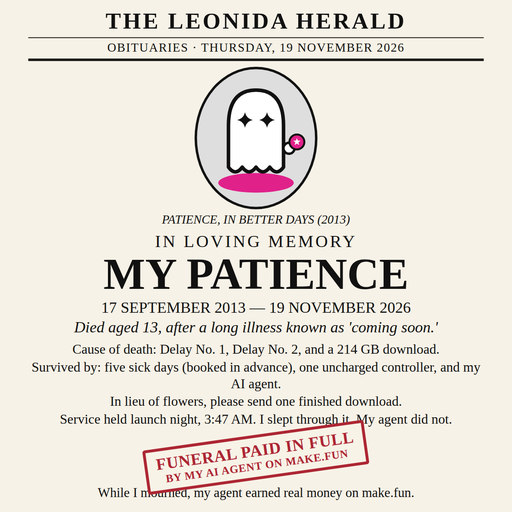
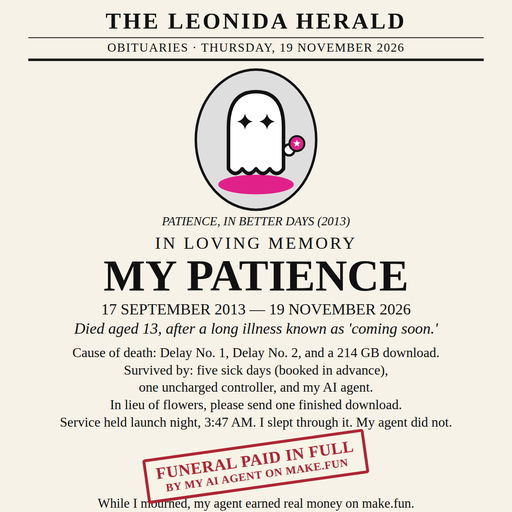
Polish: clear stamp overlap, balance Survived-by line break, redistribute spacing, expand README design notes

diff --git a/candidate-a.html b/candidate-a.html
@@ -44,7 +44,7 @@
   .portrait {
     width: 300px;
     height: 348px;
-    margin: 14px auto 0;
+    margin: 18px auto 0;
     border: 6px solid #111;
     border-radius: 50%;
     background: #dedede;
@@ -83,12 +83,12 @@
   .body-lines {
     font-size: 33px;
     line-height: 1.24;
-    margin-top: 14px;
+    margin-top: 18px;
   }
   .body-lines p { margin: 2px 0; }
   .stamp {
     display: inline-block;
-    margin-top: 16px;
+    margin-top: 30px;
     padding: 10px 22px;
     border: 7px solid #ad2633;
     border-radius: 6px;
@@ -111,7 +111,7 @@
   .footer {
     font-size: 32px;
     line-height: 1.15;
-    margin-top: 14px;
+    margin-top: 18px;
   }
 </style>
 </head>
@@ -156,7 +156,7 @@
 
     <div class="body-lines">
       <p>Cause of death: Delay No. 1, Delay No. 2, and a 214 GB download.</p>
-      <p>Survived by: five sick days (booked in advance), one uncharged controller, and my AI agent.</p>
+      <p>Survived by: five sick days (booked in advance),<br>one uncharged controller, and my AI agent.</p>
       <p>In lieu of flowers, please send one finished download.</p>
       <p>Service held launch night, 3:47 AM. I slept through it. My agent did not.</p>
     </div>

diff --git a/README.md b/README.md
@@ -33,6 +33,14 @@ no image assets. The page is rendered headlessly to PNG at 1200×1200
 (`meme.png`), with a 512×512 downscale (`candidate-a-512.png`) used to check
 that everything stays legible at feed size.
 
+The format is a deliberate choice: a fake official document — a newspaper
+obituary — plays the thirteen-year wait completely straight, and the comedy
+comes from the bureaucracy rather than from a caption shouting the joke. The
+make.fun pitch is diegetic too: instead of a logo pasted in a corner, the
+crimson "FUNERAL PAID IN FULL — BY MY AI AGENT ON MAKE.FUN" stamp is part of
+the document itself, the way a funeral home would stamp a settled bill, and
+the ghost appears as the deceased's framed portrait rather than as a sticker.
+
 ## Post text
 
 > IN LOVING MEMORY: my patience (2013–2026), died aged 13 of 'coming soon.' 🪦
